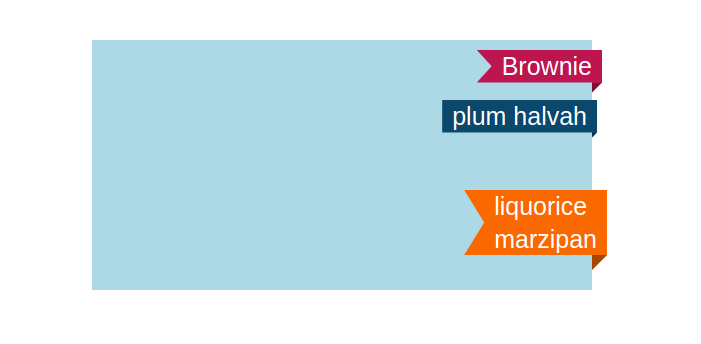
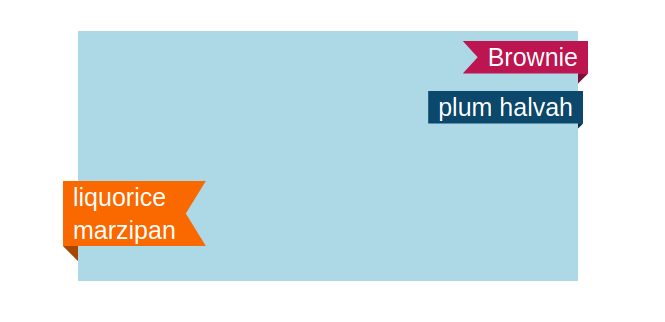
a few fixes

Changed region(s): [[0.0902, 0.0932, 0.9023, 0.8696]]

diff --git a/content/css-ribbon/index.md b/content/css-ribbon/index.md
@@ -18,28 +18,36 @@ Create a cool Ribbon using one element and a few lines of code.
 .ribbon {
   --f: 10px; /* control the folded part*/
   --r: 15px; /* control the ribbon shape */
-  --t: 10px; /* the top offset */
   
   position: absolute;
-  inset: var(--t) calc(-1*var(--f)) auto auto;
-  padding: 0 10px 0 calc(10px + var(--r));
+  top: 10px;
+  background: #BD1550;
+  border-bottom: var(--f) solid #0005;
+}
+.left {
+  left: calc(-1*var(--f));
+  border-right: var(--r) solid #0000;
+  clip-path: 
+    polygon(100% 0,0 0,0 calc(100% - var(--f)),var(--f) 100%,
+      var(--f) calc(100% - var(--f)),100% calc(100% - var(--f)),
+      calc(100% - var(--r)) calc(50% - var(--f)/2));
+}
+.right {
+  right: calc(-1*var(--f));
+  border-left: var(--r) solid #0000;
   clip-path: 
     polygon(0 0,100% 0,100% calc(100% - var(--f)),calc(100% - var(--f)) 100%,
       calc(100% - var(--f)) calc(100% - var(--f)),0 calc(100% - var(--f)),
       var(--r) calc(50% - var(--f)/2));
-  background: #BD1550; /* the main color */
-  border-bottom: var(--f) solid #0005;
 }
 ```
 
-<p class="codepen" data-height="300" data-default-tab="result" data-slug-hash="gOXLdMR" data-preview="true" data-user="t_afif" style="height: 300px; box-sizing: border-box; display: flex; align-items: center; justify-content: center; border: 2px solid; margin: 1em 0; padding: 1em;">
+<p class="codepen" data-height="450" data-default-tab="result" data-slug-hash="gOXLdMR" data-preview="true" data-user="t_afif" style="height: 450px; box-sizing: border-box; display: flex; align-items: center; justify-content: center; border: 2px solid; margin: 1em 0; padding: 1em;">
   <span>See the Pen <a href="https://codepen.io/t_afif/pen/gOXLdMR">
   CSS only ribbon</a> by Temani Afif (<a href="https://codepen.io/t_afif">@t_afif</a>)
   on <a href="https://codepen.io">CodePen</a>.</span>
 </p>
 <script async src="https://cpwebassets.codepen.io/assets/embed/ei.js"></script>
-
-More detail: [www.freecodecamp.org/news/make-a-css-only-ribbon](https://www.freecodecamp.org/news/make-a-css-only-ribbon/)
 
 ### More Ribbons
 

diff --git a/content/folded-ribbon/index.md b/content/folded-ribbon/index.md
@@ -23,7 +23,7 @@ Add a folded ribbon to the corner of your container using a few lines of code
   background: #45ADA8; /* the main color  */
   border-bottom :var(--f) solid #0007;
   clip-path: polygon(
-    100% calc(100% - var(--f)),100% 100%,calc(100% - var(--f)) calc(100% - var(--f)),var(--f) calc(100% - var(--f)), 0 100%,0 calc(100% - var(--f)),999px calc(100% - 999px),calc(100% - 999px) calc(100% - 999px))
+    100% calc(100% - var(--f)),100% 100%,calc(100% - var(--f)) calc(100% - var(--f)),var(--f) calc(100% - var(--f)), 0 100%,0 calc(100% - var(--f)),999px calc(100% - var(--f) - 999px),calc(100% - 999px) calc(100% - var(--f) - 999px))
 }
 .right {
   right: 0;
